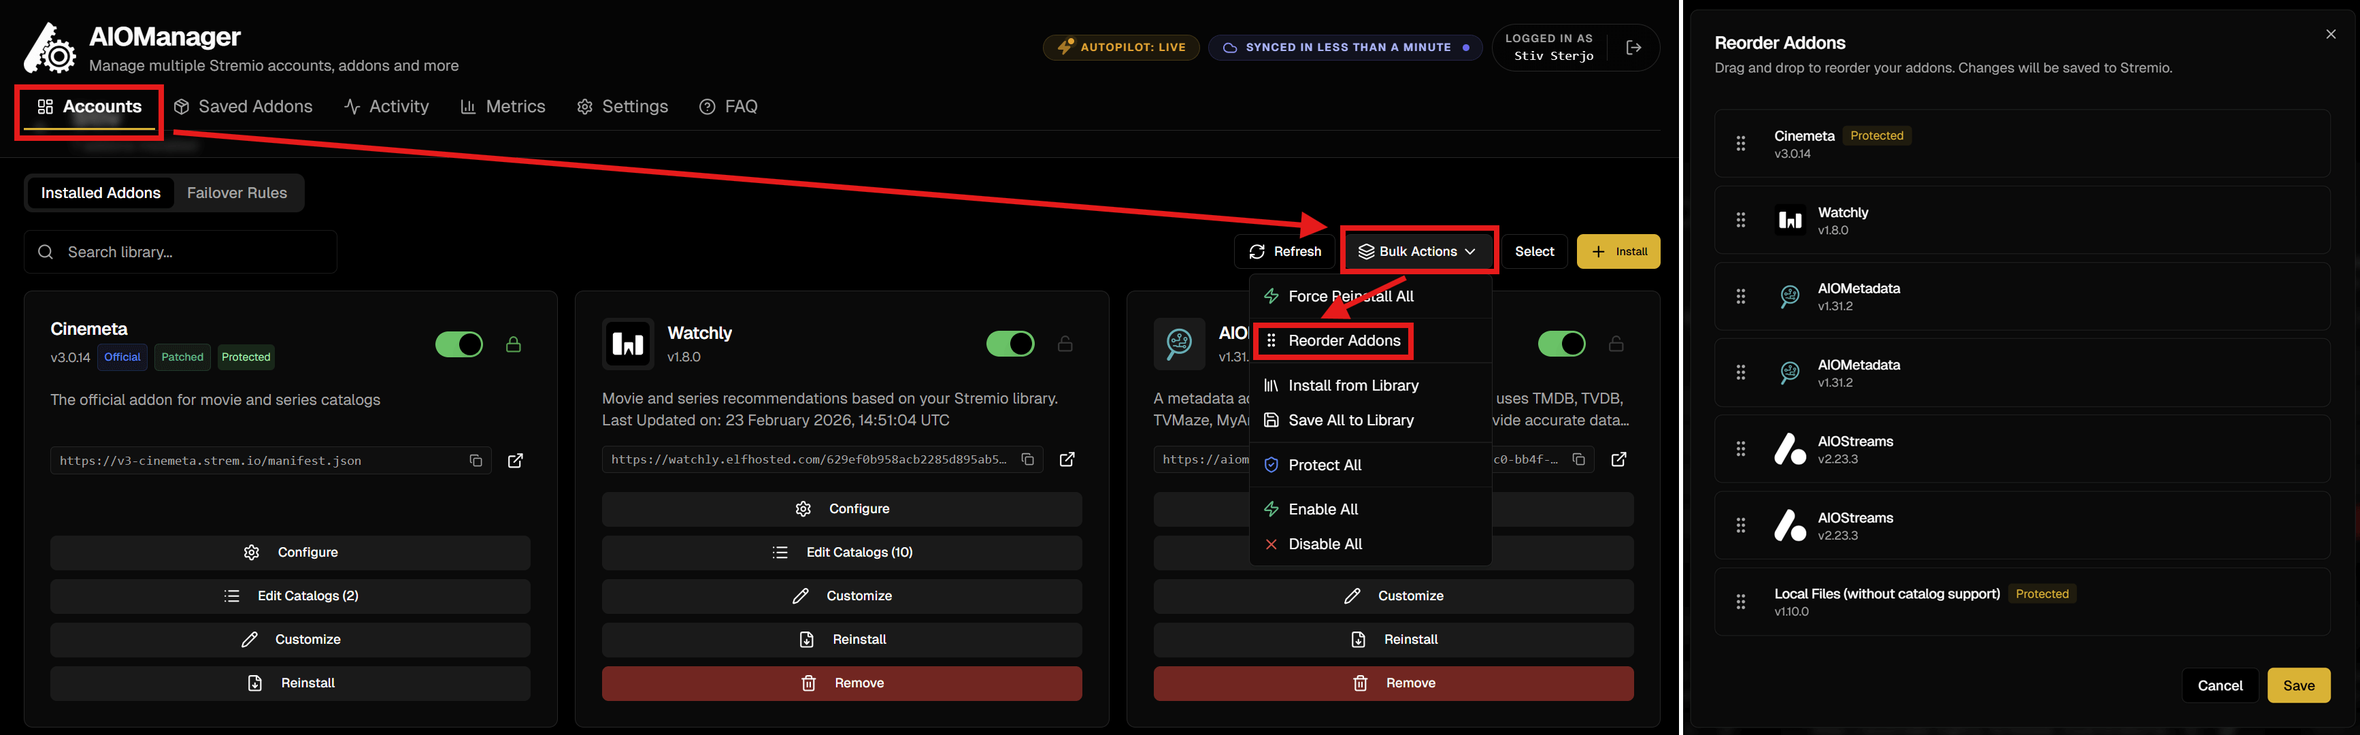
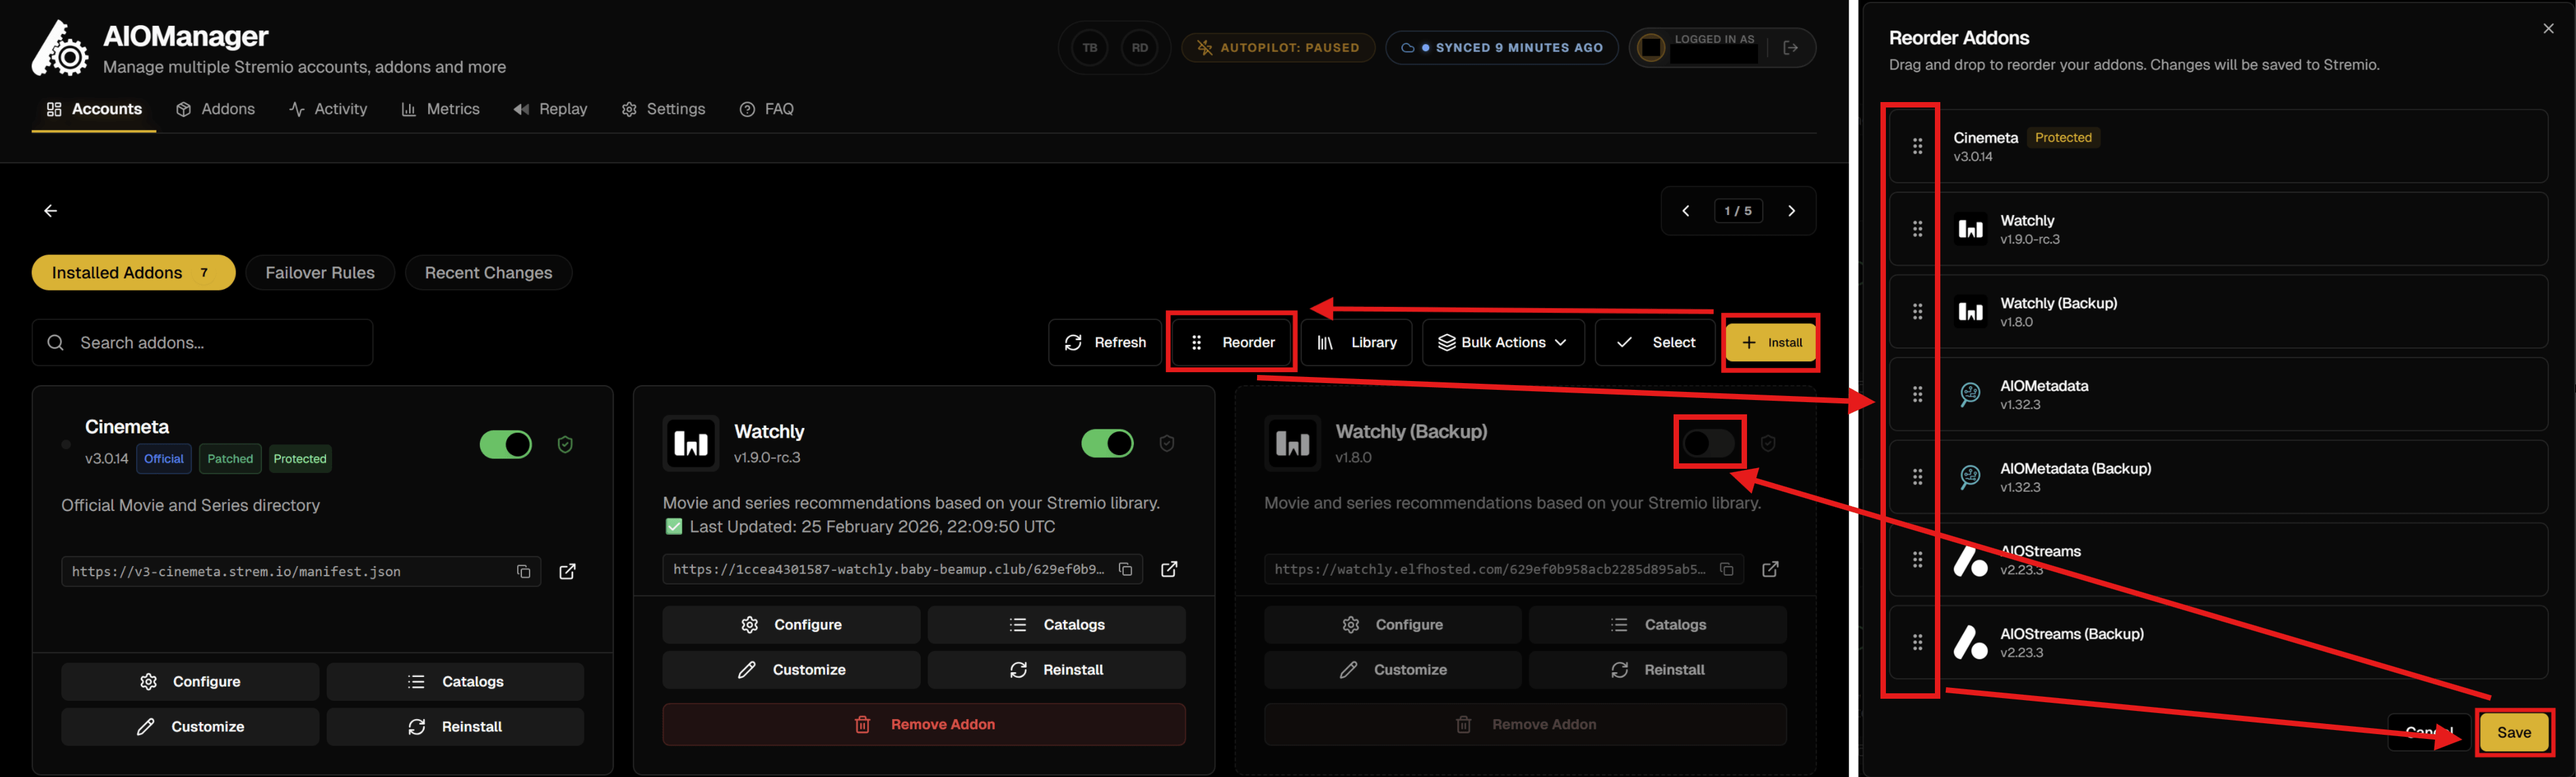
new aiomanager

diff --git a/docs/guide/AIOManager-Setup.md b/docs/guide/AIOManager-Setup.md
@@ -16,14 +16,15 @@ Let's start with what **AIOManager** can do for you:
 * **Automatic Failover**: Switch to backup addons when a primary one goes offline to increase reliability.
 * **Library Organization**: Tag and structure saved addons for faster searching and cleaner management.
 * **Granular Control & Customization**: Rename, reorder, and fine-tune how addons behave in your setup.
-* **Activity Visibility**: Access optional usage insights and monitoring tools for better oversight.
+* **Activity Visibility**: Access optional usage insights, dashboards, and fun statistics based on your watch history.
 
 ## Initial Setup
 
 And now let's start by going to either [**this**](https://aiomanagerfortheweebs.midnightignite.me/) or [**this**](https://aiomanager.elfhosted.com/) instance and:
 
 1. Select "**New Account**", enter a password twice (*at least 10 characters*), and click on "**Create & Enter**".
-2. Go to the **Settings** tab and copy the **UUID** shown there and store it together with the **Password** you set.
+2. You will see a notification "*Account Successfully Created!*" on top of the page asking you to save your **UUID**. **Store it** somewhere safe together with the **Password** you set, and then click "**I've Saved It**".
+   * *You can also go to the **Settings** tab to find your **UUID***
 3. Go to the empty **Accounts** tab and click on "**Add Stremio Account**".
 4. Now you can set a name for the account, and either:
    * sign in with your Stremio account by using your **Email** and **Password** (easiest & recommended),
@@ -31,7 +32,7 @@ And now let's start by going to either [**this**](https://aiomanagerfortheweebs.
    * entering the **Auth Key** yourself (instructions are shown, or you can get it as described on the **Cinebye** page in this guide).
 5. Click "**Add Account**" and the account will show up on the **Accounts** tab.
    * *You can repeat this step for all accounts you may want to manage here, if you have more than one, e.g. for all your family.*
-6. Click on "**View Addons**" on the account you added.
+6. Click on the account that you added.
    * *You will see the **Cinemeta** and maybe also the **Local Files** addons. If you followed this guide, they will also be ordered just like you ordered them with **Cinebye**.*
 
 ![Create Account](../images/9.1.png)
@@ -40,18 +41,23 @@ And now let's start by going to either [**this**](https://aiomanagerfortheweebs.
 
 AIOManager has a lot of options to manage addons: install, configure, order, remove, copy, update, and more. I'm not going to describe everything here because it would be too much, but feel free to explore the options:
 * ***Note**: Everything you do on AIOManager is saved immediately & automatically, so you don't need to take any additional steps for saving.*
+* **Refresh**: Refresh the installed addons and their metadata.
+* **Reorder**: Change the order of the addons (*just like with Cinebye*).
+* **Library**: Install addons saved in the the personal addons library (** Addons** tab).
+* **Bulk Actions**:
+   * **Force Reinstall All**: Refresh the addon installations (*good when making changes to AIOMetadata catalogs, just like refreshing with Cinebye*).
+   * **Save All to Library**: Save addons in the personal addons library (**Saved Addons** tab) so that you can reuse them in another account or keep them for later.
+   * **Protect All**: Lock all addons from being deleted inadvertently.
+   * **Enable/Disable All**: Enable or disable all addons in your Stremio account.
+* **Install**: Install a new addon in the account through the manifest URL.
 * For each addon, you can press:
    * **Configure** to go to the addon's own configuration page.
+   * **Catalogs** to reorder and rename the catalogs provided by the addon (if available).
    * **Customize** to set a different name for it, which is also how it will show on Stremio.
    * **Reinstall** to refresh the installation if needed.
    * **Remove** to uninstall the addon.
    * **Enable/Disable** the addon through the toggle (which will actually install/remove it on the Stremio account every time you toggle).
-* While inside an account, you can click on "**Bulk Actions**" and:
-   * **Force Reinstall All**: Refresh the addon installations (*good when making changes to AIOMetadata catalogs, just like refreshing with Cinebye*).
-   * **Reorder Addons**: Change the order of the addons (*just like with Cinebye*).
-   * **Save All to Library**: Save addons in the personal addons library (**Saved Addons** tab) so that you can reuse them in another account or keep them for later.
-   * **Install From Library**: Install addons saved in the aforementioned library.
-   * **Enable/Disable All**: Enable or disable all addons in your Stremio account.
+   * **Protect**: Lock the addon from being deleted inadvertently.
 * While inside an account, if you click on "**Select**" and select one or more addons, you will also see options for them, including a **Save** option to save them to the library.
 * If you go back to the **Accounts** tab where you see your Stremio accounts, you can click "**Select**", select an account, and then click on "**Bulk Actions**".
    * Here you will see many options that you can do between accounts, including **Mirror from Account**, which can copy the entire account setup (addons and order) into another account.
@@ -64,6 +70,7 @@ Here's a screenshot of how an account with installed addons looks like (*see Aut
    * Here you can add the URLs of any addon manifest/configuration you want and keep it stored regardless of a Stremio account.
    * You can use *Profiles* and *Tags* to organize them, which makes it easier to install or remove them from accounts in bulk.
 * The **Activity** and **Metrics** tabs show the watch activity and some fun analytics of the accounts you have added.
+* The **Replay** tab is a very cool feature inspired by Apple Music Replay / Spotify Wrapped, where you can see a lot of visually beautiful statistics and exciting information about the watching behavior of all your accounts.
 
 ## Autopilot (Automatic Failover)
 
@@ -76,16 +83,16 @@ The best use of this feature would be for the **AIOStreams** and **AIOMetadata**
    * *For **AIOStreams**/**AIOMetadata**, you can create a copy of your same configuration on another instance by signing in to your current configuration with your **UUID** and **Password**, going to **Save & Install**/**Configuration** respectively, and exporting the configuration **INCLUDING** credentials. Then you go to the new instance for each, go to **Save & Install**/**Configuration** respectively again, and **Import Configuration**. Don't forget to **Save** the new configuration on the new instance, and store the new **UUID** and **Password** for this backup you just created.*
    * *For **AIOMetadata**, everything including the API keys will be imported, but the **Trakt** and **Simkl** integration (if you used them) will need to be repeated on the **Catalogs** tab.*
    * *In the end you will have one initial/original addon, which we will call "main", and a secondary same addon but on a different instance, which we will call "backup".*
-2. Back to **AIOManager**, in the **Accounts** tab, you enter the account you want, and click on "**Install +**".
+2. Back to **AIOManager**, in the **Accounts** tab, you enter the account you want, and click on "**+ Install**".
 3. Paste the *Addon URL* and click "**Install Addon**".
    * *This assumes you have already installed the initial main addon. If you haven't installed the first addon yet, then repeat this step twice with the manifest URLs for each.*
-4. Click on "**Bulk Actions**" and then "**Reorder Addons**".
+4. Click on "**Reorder**".
 5. Order the *backup* addon right below the *main* addon and click "**Save**".
    * *The main and backup addon always need to be in pairs in the order, always next to each other, no other addons in-between.*
+6. Disable the *backup* addon through the toggle near the title.
 
 ![Order Addons](../images/9.3.png)
 
-6. Disable the *backup* addon through the toggle near the title.
 7. Go to "**Failover Rules**" (*below the name of the opened account*).
 8. In the "**Create New Autopilot Rule**" section, select the *main* addon on the first dropdown marked "*1*" and the *backup* addon on the second dropdown marked "*2*".
    * *If the addons have the same name, remember the order you set them earlier, they will show in that order here.*
